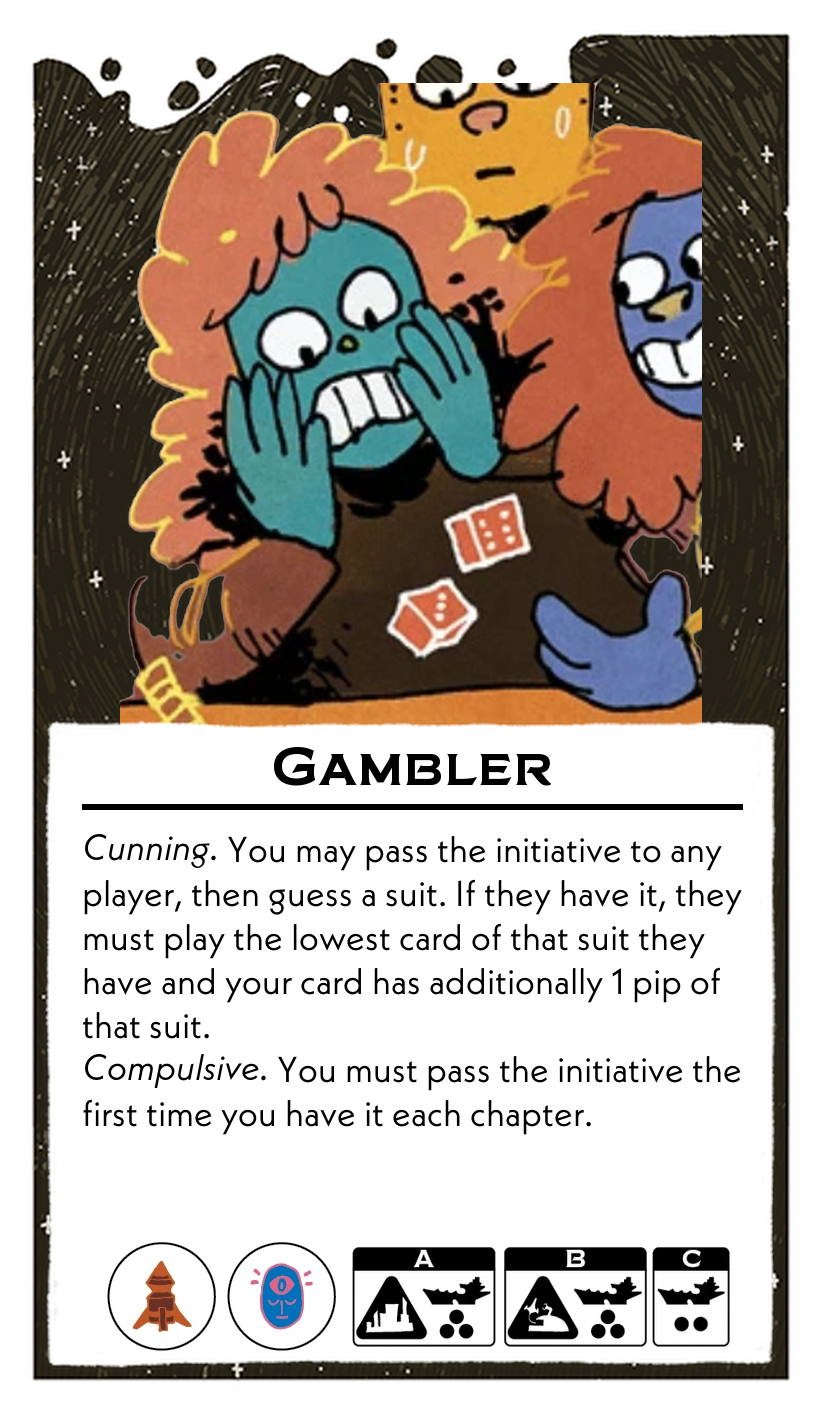
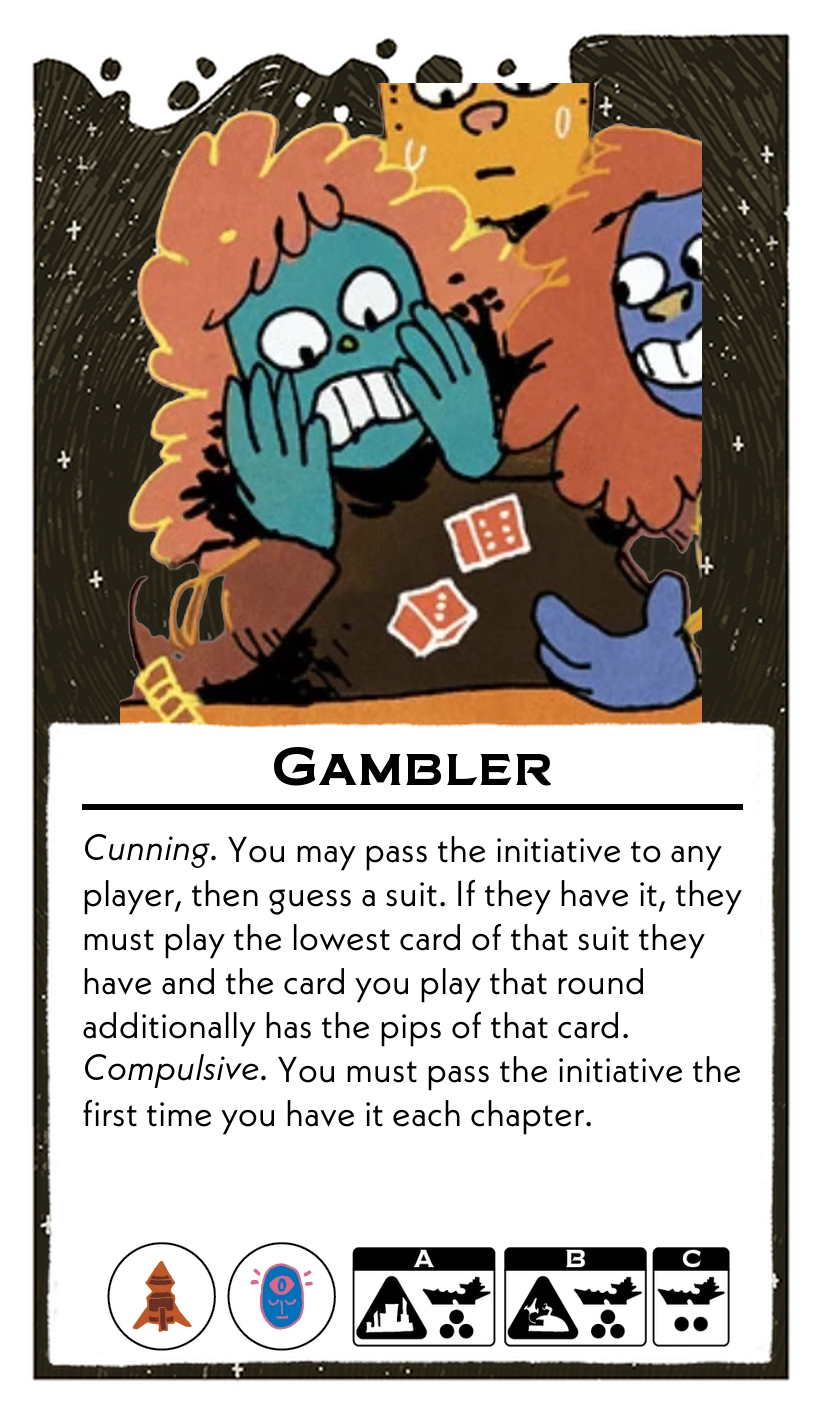
gambler simplify

Changed region(s): [[0.0912, 0.6846, 0.882, 0.7468]]

diff --git a/scripts/leadersFormatted.py b/scripts/leadersFormatted.py
@@ -286,7 +286,7 @@ leaders = [
     {
         "name": "Gambler",
         "abilities": (
-            "*Cunning.* You may pass the initiative to any player, then guess a suit. If they have it, they must play the lowest card of that suit they have and your card has additionally 1 pip of that suit.\n"
+            "*Cunning.* You may pass the initiative to any player, then guess a suit. If they have it, they must play the lowest card of that suit they have and the card you play that round additionally has the pips of that card.\n"
             "*Compulsive.* You must pass the initiative the first time you have it each chapter."
         ),
         "resources": ["Weapon", "Psionic"],
